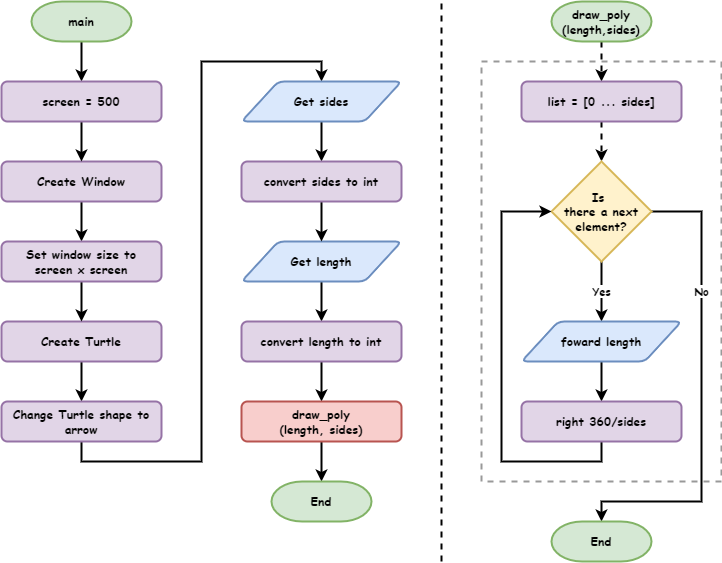
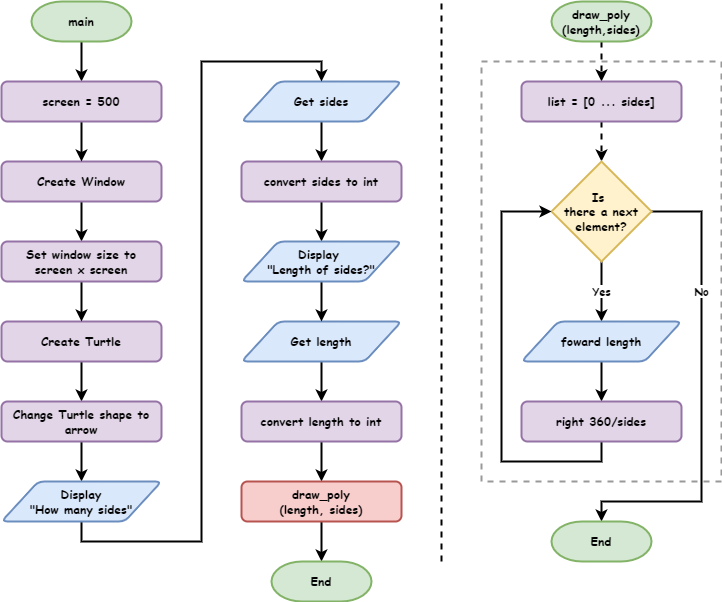
flowcharts finished

diff --git a/lesson_5.md b/lesson_5.md
@@ -40,7 +40,7 @@ my_ttl = turtle.Turtle()
 my_ttl.shape("turtle")
 
 num_sides = int(input("How many sides?> "))
-size = int(input("How long are the sides?> "))
+size = int(input("Length of sides?> "))
 
 draw_poly(size, num_sides)
 ```
@@ -93,7 +93,7 @@ Adjusts your code so it is the same as the code below:
 user_value = input("Enter a number: ")
 
 if user_value.isdigit():
-    print("Yes that is a number")
+    print("That's a number")
 ```
 
 PRIMM
@@ -103,6 +103,14 @@ PRIMM
   - second time enter the value `dog`
 - **Run** the code. Did it follow your prediction?
 - Let's **investigate** that code.
+
+#### Flowcharts
+
+Flowcharts are great at demonstrating how selection works. We have already used the condition symbol (diamond) in our `for` loops. They are also used for the conditions in `if` statements.
+
+Code flowchart:
+
+<img align="left" src="assets/flowchart_lesson_5_1.png">
 
 Code breakdown:
 
@@ -133,9 +141,9 @@ Adjust your code by adding lines `5` and `6` in the code below:
 user_value = input("Enter a number: ")
 
 if user_value.isdigit():
-    print("Yes that is a number")
+    print("That's a number")
 else:
-    print("Silly, that is not a number")
+    print("That's not a number")
 ```
 
 PRIMM
@@ -145,6 +153,10 @@ PRIMM
   - second time enter the value `dog`
 - **Run** the code. Did it follow your prediction?
 - Let's **investigate** that code.
+
+Code flowchart:
+
+<img align="left" src="assets/flowchart_lesson_5_2.png">
 
 Code breakdown:
 
@@ -201,7 +213,7 @@ else:
     print("Invalid input")
     quit()
 
-size = input("How long are the sides?> ")
+size = input("Length of sides?> ")
 
 draw_poly(size, num_sides)
 ```
@@ -211,7 +223,7 @@ draw_poly(size, num_sides)
 Then replace line `27` with this code:
 
 ``` python
-size = input("How long are the sides?> ")
+size = input("Length of sides?> ")
 if size.isdigit():
     size = int(size)
 else:
@@ -248,7 +260,7 @@ else:
     print("Invalid input")
     quit()
 
-size = input("How long are the sides?> ")
+size = input("Length of sides?> ")
 if size.isdigit():
     size = int(size)
 else:
@@ -276,6 +288,10 @@ PRIMM
 > - Test `if` statements for both `True` conditions and `False` conditions.
 > - This code had four possible branches so we needed to test all four of them
 
+Code flowchart:
+
+<img align="left" src="assets/flowchart_lesson_5_3.png">
+
 Code breakdown:
 
 - Line `19`: `# get user input` &rarr; a comment used to structure the code
@@ -286,7 +302,7 @@ Code breakdown:
 - Line `23`: `else:` &rarr; if `num_sides` is not all numbers execute following code block (lines `22` to `23`)
 - Line `24`: `print("Invalid input")` &rarr; informs the user of their mistake
 - Line `25`: `quit()` &rarr; exits the program
-- Line `27`: `size = input("How long are the sides?> ")` &rarr; accepts user input and assigns it to `size`
+- Line `27`: `size = input("Length of sides?> ")` &rarr; accepts user input and assigns it to `size`
 - Line `28`: `if size.isdigit():` &rarr; tests if `size` only contains numbers
   - If `size.isdigit()` is `True` then run the code block from line `27`
 - Line `29`: `size = int(size)` takes the value assigned to `size` converts it to an integer, then reassigns it to `size`
@@ -308,7 +324,7 @@ During all this, the only parts of the code that differs are:
 
 - Line `20` and `27` the `input` prompt is different:
   - Line `20` &rarr; `"How many sides?> "`
-  - Line `27` &rarr; `"How long are the sides?> "`
+  - Line `27` &rarr; `"Length of sides?> "`
 - in their respective sections different variable names are used:
   - Lines `20` to `25` &rarr; `num_sides`
   - Lines `27` to `32` &rarr; `size`
@@ -339,7 +355,7 @@ Then remove the code under `# get user input` from lines `19` to `32`, and repla
 ``` python
 # get user input
 num_sides = get_number("How many sides?> ")
-size = get_number("How long are the sides?> ")
+size = get_number("Length of sides?> ")
 ```
 
 In the end your code should look like the code below:
@@ -374,7 +390,7 @@ my_ttl.shape("turtle")
 
 # get user input
 num_sides = get_number("How many sides?> ")
-size = get_number("How long are the sides?> ")
+size = get_number("Length of sides?> ")
 
 draw_poly(size, num_sides)
 ```
@@ -386,7 +402,13 @@ It is really important, when you refactor code, to ensure that the code still wo
 - invalid `sides` value and valid `size` value
 - invalid `sides` value and invalid `size` value
 
-If your code still works as it should, lets unpack the code we just added:
+If your code still works as it should, let's **investigate** the code we just added.
+
+Code flowchart:
+
+<img align="left" src="assets/flowchart_lesson_5_4.png">
+
+Code breakdown:
 
 - The `get_number` function:
   - `def get_number(prompt):` &rarr; defines our new function with one argument `prompt`:
@@ -404,9 +426,9 @@ If your code still works as it should, lets unpack the code we just added:
   - `get_number()` &rarr; calls the function
   - `"How many sides?> "` &rarr; provides the prompt string to the function
   - `num_sides =` takes the value returned by the function and assigns it to `num_sides`
-- `size = get_number("How long are the sides?> ")` &rarr; calls the `get_number` function
+- `size = get_number("Length of sides?> ")` &rarr; calls the `get_number` function
   - `get_number()` &rarr; calls the function
-  - `"How long are the sides?> "` &rarr; provides the prompt string to the function
+  - `"Length of sides?> "` &rarr; provides the prompt string to the function
   - `size =` takes the value returned by the function and assigns it to `size`
 
 ### Playing with colour
@@ -465,7 +487,7 @@ my_ttl.shape("turtle")
 
 # get user input
 num_sides = get_number("How many sides?> ")
-size = get_number("How long are the sides?> ")
+size = get_number("Length of sides?> ")
 
 draw_poly(size, num_sides, "red")
 ```
@@ -555,7 +577,7 @@ my_ttl.shape("turtle")
 
 # get user input
 num_sides = get_number("How many sides?> ")
-size = get_number("How long are the sides?> ")
+size = get_number("Length of sides?> ")
 fill = get_color()
 
 draw_poly(size, num_sides, fill)
@@ -591,6 +613,10 @@ There are a few new concepts for us to breakdown:
 - Line `30`: `else:`
   - is only executed if the conditions in line `21`, line `23` and line `24` are all `False`
 - Line `31` and line `32` are the same as the `get_number` function
+
+Code flowchart:
+
+<img align="left" src="assets/flowchart_lesson_5_5.png">
 
 The `if` ... `elif` ... `else` statement is very useful and flexible. You will use it in various configurations, so let look at it's rules.
 
@@ -711,7 +737,7 @@ my_ttl.shape("turtle")
 
 # get user input
 num_sides = get_number("How many sides?> ")
-size = get_number("How long are the sides?> ")
+size = get_number("Length of sides?> ")
 fill = get_color()
 
 draw_poly(size, num_sides, fill)
@@ -973,7 +999,7 @@ PRIMM
 - **Run** the code. Did it follow your predictions?
 - Let's **investigating** the new code to see how a `while` loop works.
 
-We'll break-down this code out of order to help our understanding:
+Code breakdown:
 
 - Line `17`: `while guess != number:`
   - `guess != number` &rarr; this is the loop condition
@@ -987,6 +1013,10 @@ We'll break-down this code out of order to help our understanding:
     - The problem is, if the value we assign to `guess` happens to be the same random number assigned to `number`, the `while` loop will not run at all, and the user will not provide input.
     - To solve this, we assign `0` because it is outside the range of `random.randint` (1-100).
     - This way, `guess != number` will always return `True` the first time the condition is tested.
+
+Code flowchart:
+
+<img align="left" src="assets/flowchart_lesson_5_6.png">
 
 ### Using `while` to enhance our error capture
 
@@ -1051,6 +1081,10 @@ Code breakdown:
   - Since the `while` loop is infinite, the program will keep asking for input until it executes line `8`.
   - In line `8` the value assigned to `num` is converted into an integer and then returned to the main program
   - In this situation the `return` statement ends the function, effectively exiting the `while` loop in the process.
+
+Code flowchart:
+
+<img align="left" src="assets/flowchart_lesson_5_7.png">
 
 The end effect of these changes is the program will endlessly ask the user for a number between 1 and 100, until the user provides an integer.
 
@@ -1128,7 +1162,7 @@ my_ttl.shape("turtle")
 
 # get user input
 num_sides = get_number("How many sides?> ")
-size = get_number("How long are the sides?> ")
+size = get_number("Length of sides?> ")
 fill = get_color()
 
 move_pen()

diff --git a/lesson_6.md b/lesson_6.md
@@ -235,10 +235,10 @@ def set_scene():
 ## Reaction to signal (slot) ##
 def draw_dot(x, y):
     print(x, y)
-    dot_colour = "orange"
-    dot_size = 10
+    color = "orange"
+    size = 10
     my_ttl.goto(x, y)
-    my_ttl.dot(dot_size, dot_color)
+    my_ttl.dot(size, color)
 
 
 ## Main Program
@@ -251,7 +251,7 @@ my_ttl.hideturtle()
 - **Run** the code and check your predictions.
 - Let's **Investigate** that code.
 
-The code is in three sections, so let's look at them in the order they are executed:
+We'll do the code breakdown in three sections in the order they are executed:
 
 - Lines `29` to `31`: the main program
   - Line `29`: `my_ttl = turtle.Turtle()` &rarr; create a Turtle object and names it `my_ttl`
@@ -273,11 +273,11 @@ The code is in three sections, so let's look at them in the order they are execu
     - accepts the two arguments `x` and `y` which are passed from line `8`
     - `turtle.onscreenclick()` always passes the `x` and `y` coordinates as arguments
   - Line `21`: prints the `x` and `y` coordinates to the **Shell** (to help you plan your code)
-  - Line `22`: assigns `"orange"` to the variable `dot_colour`
-  - Line `23`: assigns `10` to the variable `dot_size`
+  - Line `22`: assigns `"orange"` to the variable `color`
+  - Line `23`: assigns `10` to the variable `size`
   - Line `24`: sends the turtle to the `x` and `y` coordinates
-  - Line `25`: `my_ttl.dot(dot_size, dot_color)` draws a dot at the turtle position of size `dot_size` and colour `dot_colour`
-  
+  - Line `25`: `my_ttl.dot(size, color)` draws a dot at the turtle position of size `size` and colour `color`
+
 ## Exercises
 
 In this course, the exercises are the **make** component of the PRIMM model. So work through the following exercises and make your own code.
@@ -289,6 +289,10 @@ To do this your will need to use:
 - `if` ... `elif` ... `else` statements
 - Boolean comparisons
 - Boolean operations
+
+You will also need to remember how coordinates work in Turtle.
+
+<img align="left" src="assets/coordinates.png">
 
 ### Exercise 1
 
@@ -316,7 +320,7 @@ def set_scene():
 ## Reaction to signal (slot) ##
 def draw_dot(x, y):
     print(x, y)
-    dot_colour = "orange"
+    color = "orange"
 
     ##################################
     ######## Answer goes here ########
@@ -330,7 +334,7 @@ def draw_dot(x, y):
 
     To change the colour of the dot to red, run the command
 
-    dot_color = 'red'
+    color = 'red'
 
     """
 
@@ -339,8 +343,8 @@ def draw_dot(x, y):
     ##################################
 
     my_ttl.goto(x, y)
-    dot_size = 10
-    my_ttl.dot(dot_size, dot_color)
+    size = 10
+    my_ttl.dot(size, color)
 
 
 my_ttl = turtle.Turtle()
@@ -349,6 +353,10 @@ my_ttl.hideturtle()
 ```
 
 Follow the instructions in the comments from line `24` to line `42`.
+
+To help, here is the flowchart for the `draw_dot` function:
+
+<img align="left" src="assets/flowchart_lesson_6_1.png">
 
 ### Exercise 2
 
@@ -376,7 +384,7 @@ def set_scene():
 ## Reaction to signal (slot) ##
 def draw_dot(x, y):
     print(x, y)
-    dot_color = "orange"
+    color = "orange"
     
     ##################################
     ######## Answer goes here ########
@@ -392,8 +400,8 @@ def draw_dot(x, y):
     ##################################
 
     my_ttl.goto(x, y)
-    dot_size = 10
-    my_ttl.dot(dot_size, dot_color)
+    size = 10
+    my_ttl.dot(size, color)
 
 
 my_ttl = turtle.Turtle()
@@ -429,7 +437,7 @@ def set_scene():
 ## Reaction to signal (slot) ##
 def draw_dot(x, y):
     print(x, y)
-    dot_color = "orange"
+    color = "orange"
 
     ##################################
     ######## Answer goes here ########
@@ -446,8 +454,8 @@ def draw_dot(x, y):
     ##################################
 
     my_ttl.goto(x, y)
-    dot_size = 10
-    my_ttl.dot(dot_size, dot_color)
+    size = 10
+    my_ttl.dot(size, color)
 
 
 my_ttl = turtle.Turtle()

diff --git a/lesson_4.md b/lesson_4.md
@@ -937,7 +937,7 @@ my_ttl = turtle.Turtle()
 my_ttl.shape("turtle")
 
 sides = int(input("How many sides?> "))
-length = int(input("How long are the sides?> "))
+length = int(input("Length of sides?> "))
 
 draw_poly(length, sides)
 ```
